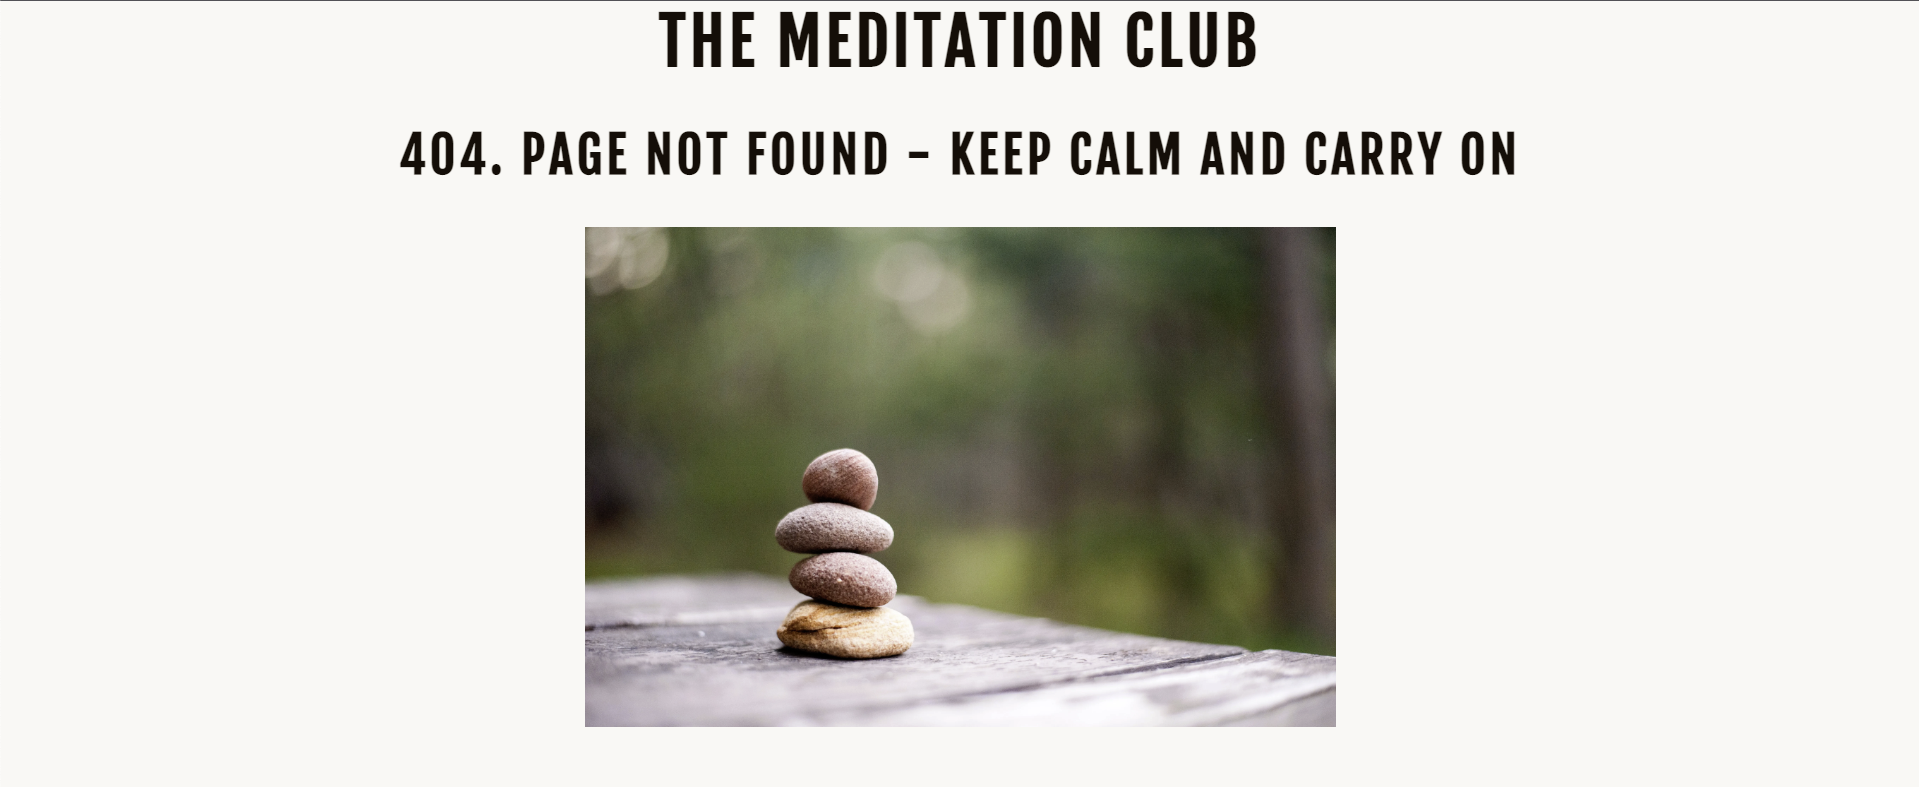
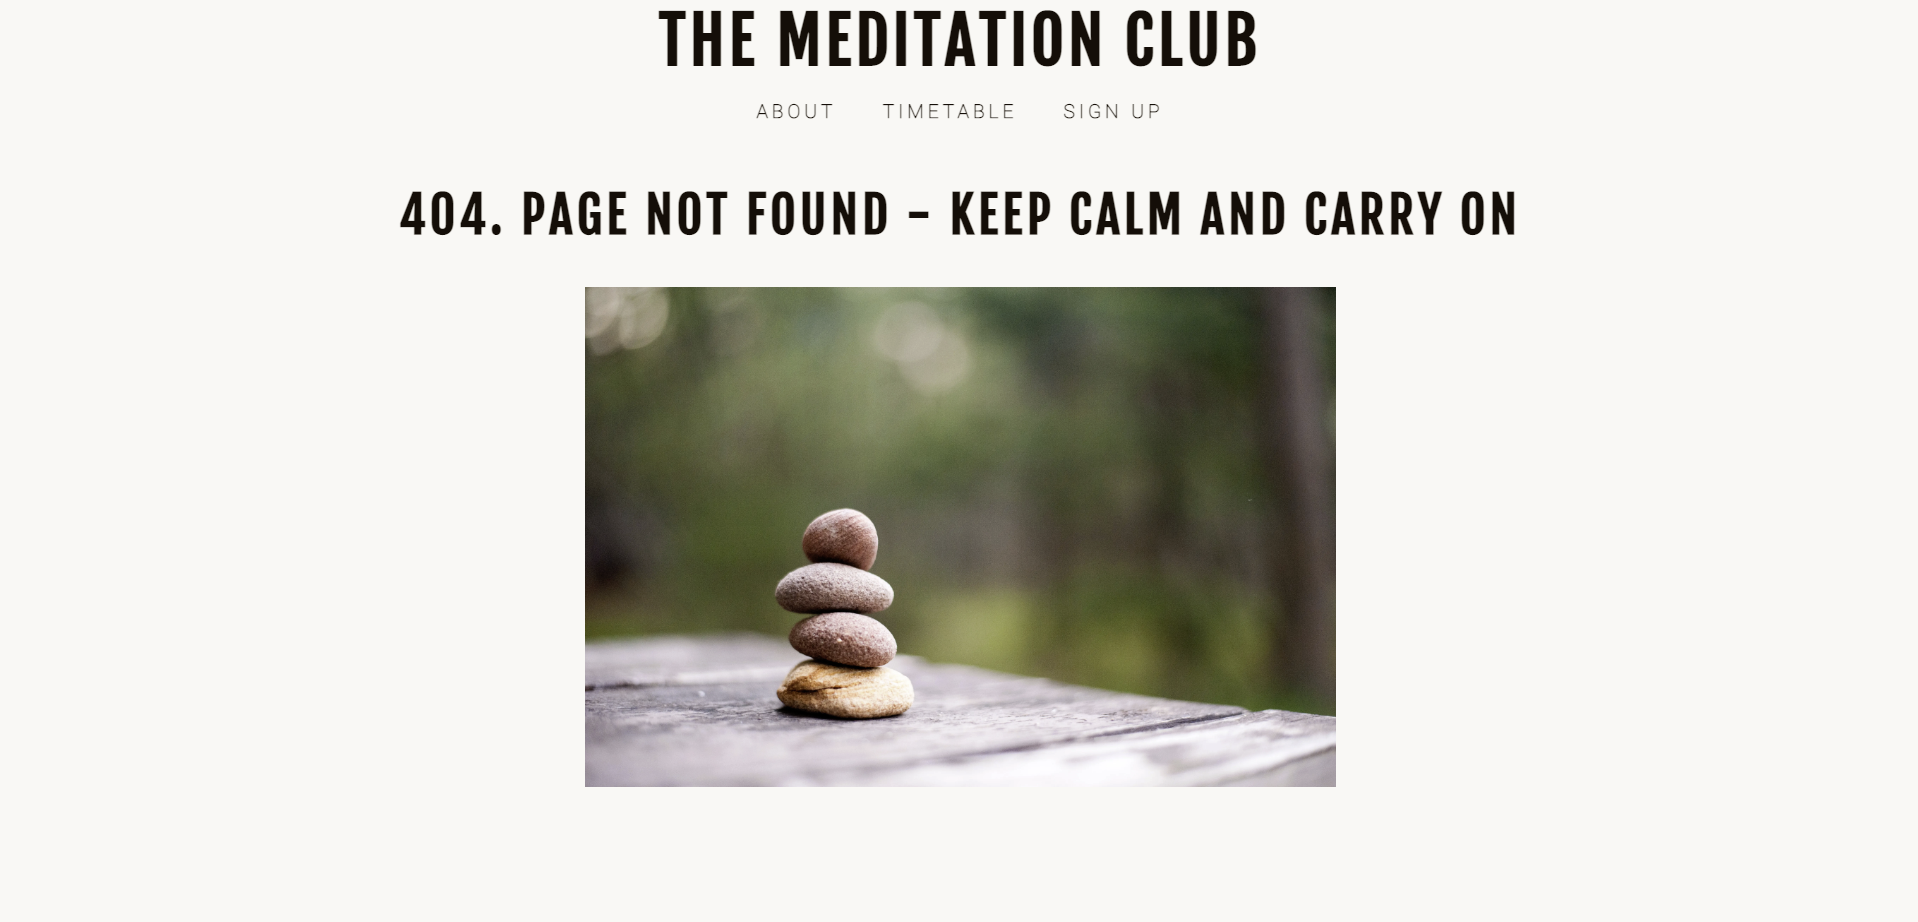
404 error site working and readme updated to reflect

Changed region(s): [[0.2769, 0.5489, 0.7075, 0.9454], [0.1846, 0.1525, 0.7998, 0.3964], [0.3384, 0.0, 0.6767, 0.122]]

diff --git a/README.md b/README.md
@@ -113,6 +113,7 @@ The website contains 3 sections within the index.html (main website). There is o
 **Header**
 - Header holds a heading for the whole page which reads 'The Meditation Club'.
 - Dark coloured and has a specific modern font to make it stand out.
+- The logo is linked to the home page which is the index.html page.
 
 ![Header-navbar](/readme-resources/images/Header-and-nav-bar.png)
 
@@ -122,6 +123,7 @@ The website contains 3 sections within the index.html (main website). There is o
 - Links to about section, timetable section and signup section. 
 - Font contrasts with background which is off-white. It's in a simple but modern text.
 - Fully responsive with diffrent devices. Easily done as it's in the center of page.
+- The Nav bar is also on the 404 error page.
 
 ![Header-navbar](/readme-resources/images/Header-and-nav-bar.png)
 
@@ -171,8 +173,8 @@ The website contains 3 sections within the index.html (main website). There is o
 ![footer](/readme-resources/images/footer.png)
 
 **404 Error page**
-- The 404 error page is a single HTML file which includes the logo which is the same as the logo on the main website. 
-- It includes a sub-heading which goes with the theme of the site. 
+- The 404 error page is a single HTML file which includes the logo which is the same as the logo on the main website which links to the main site when clicked.
+- It includes a functional nav bar which goes with the theme of the site. 
 - Then an image of 4 rocks stacked ontop of eachother which is a common meditation image.
 
 ![404](/readme-resources/images/error-page.png)
